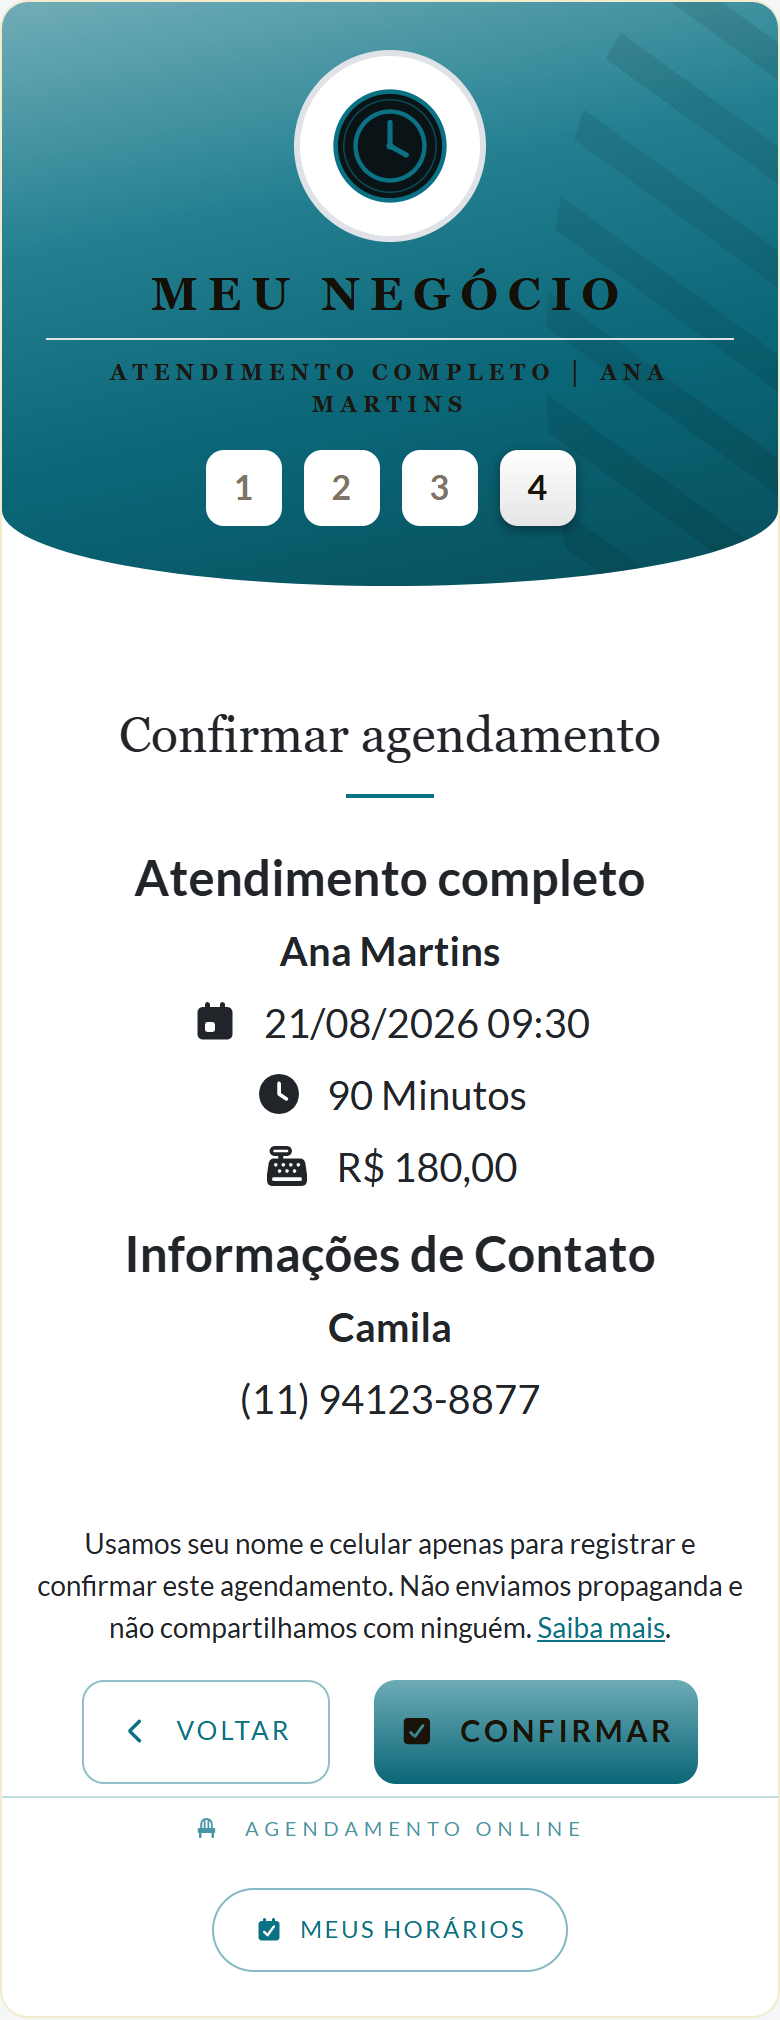
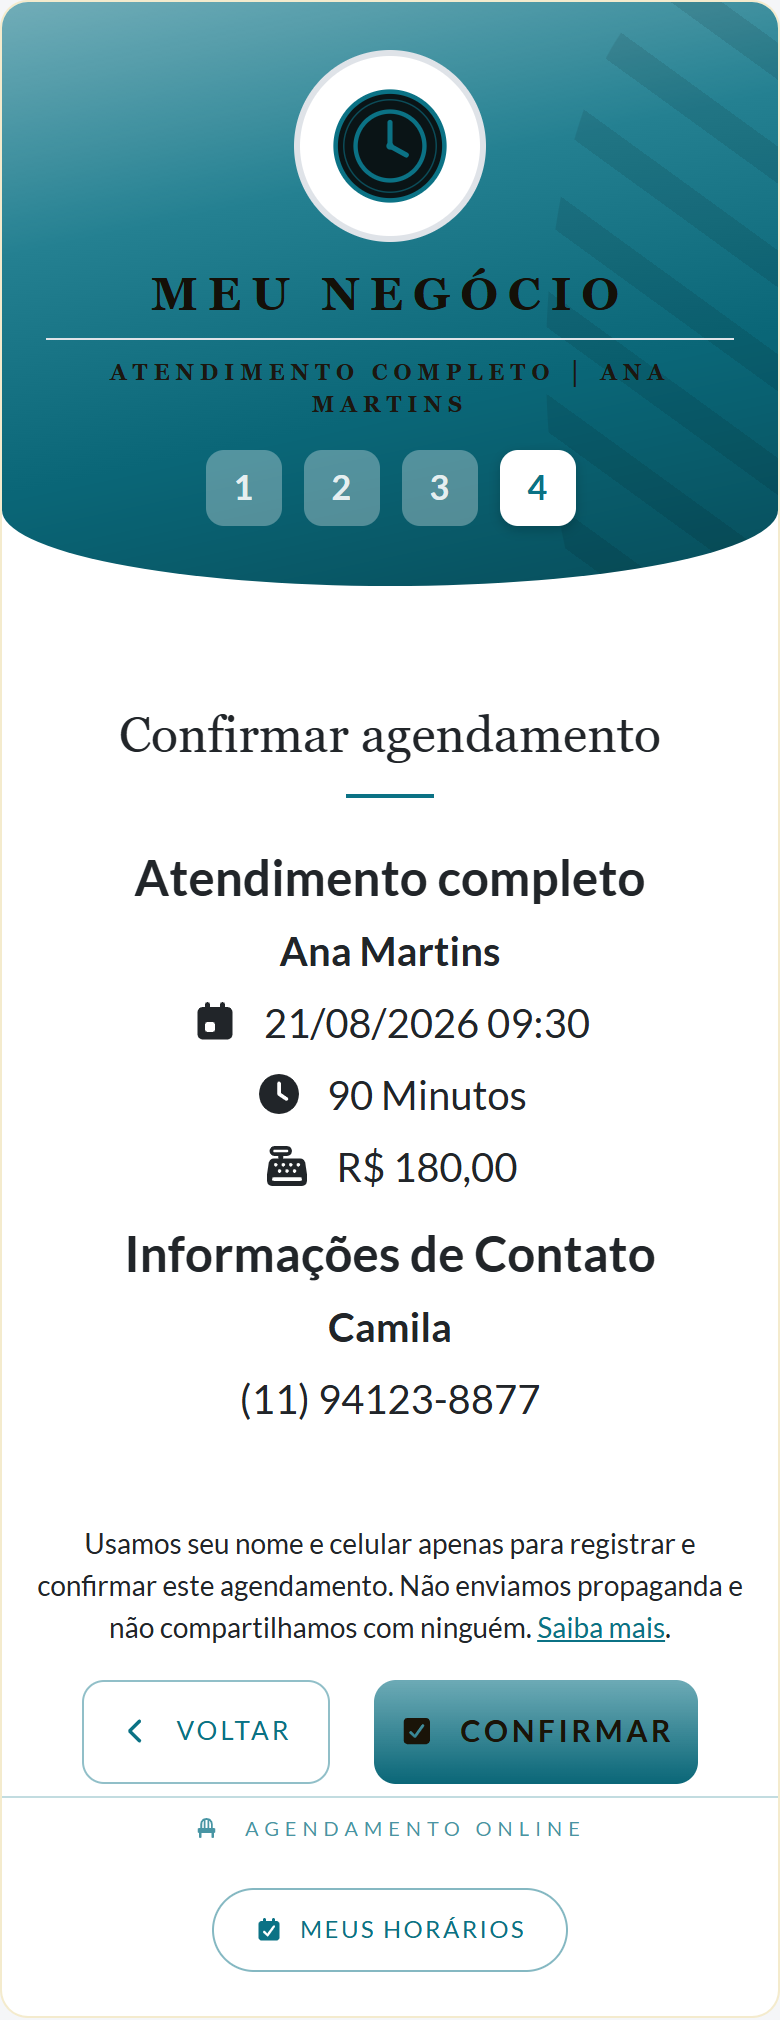
Corrige as telas do cliente: destaque do passo, calendario e borda
Tres defeitos apontados pelo Rafael, e os dois primeiros com a mesma causa raiz.

O print era tirado logo depois da inversao de cores, e o app anima cor em
transition: .3s linear - entao a foto pegava o MEIO da animacao. Dai a tela do
passo 2 saia com o destaque parecendo estar no numero 1, e os horarios lavados.
Corrigido desligando transition e animation na folha que o tema_claro.js injeta,
mais 350ms de folga por garantia.

A tira 1-2-3-4 precisou de tratamento proprio: ela fica sobre a faixa da marca,
que continua colorida, entao a regra geral de "fundo escuro vira claro" nao valia
ali - o inativo (#241f16) virava branco e ficava igual ao ativo. Voltou ao
desenho do proprio Easy!Appointments: ativo e' pastilha branca solida com o
numero na cor da marca, inativo e' branco translucido.

O calendario tinha 2.620px contra 1.584 do passo 3 e saia com o dobro do
comprimento dos vizinhos. Passou a ser cortado na segunda fileira de horarios
(1.944px); a fileira agora fecha em 484/520/424/541.

E os prints sumiam no papel: desde que viraram claros o fundo deles (#f5f6f8) e'
quase o da pagina, e sem uma linha em volta a tela se dissolvia. Entrou borda de
1px nas 10 imagens do app.

Defeito latente achado no caminho: os scripts pediam a data em UTC, e rodando as
22h19 pediam o dia seguinte ao app, que respondia uma tela vazia e estourava o
recorte. Passaram a usar a data de Sao Paulo.

Changed region(s): [[0.2462, 0.2183, 0.6154, 0.2807], [0.6769, 0.2183, 0.7077, 0.2495]]

diff --git a/agenda-global/index.html b/agenda-global/index.html
@@ -142,9 +142,15 @@ header {
 /* height:auto e' obrigatorio junto de width/height no <img>. Sem ele a altura
    fica presa nos 1688 do atributo e a imagem estica — foi o defeito que
    quebrou a home no ar em 16/08 (T76). Nao remover. */
+/* A BORDA NAO E' ENFEITE. Desde 20/08/2026 os prints do app nesta pagina sao a
+   versao clara, e o fundo deles (#f5f6f8) e' quase o mesmo da pagina: sem uma
+   linha em volta a tela do celular se dissolve no papel e o visitante nao ve onde
+   comeca o produto. Com o print escuro a sombra bastava; com o claro, nao.
+   Apontado pelo Rafael: "a imagem esta da mesma cor que a lateral". */
 .heroi img {
   width: 100%; height: auto; max-width: 300px; display: block; margin: 0 auto;
   border-radius: var(--radius-3); box-shadow: var(--shadow-2);
+  border: var(--border-size-1) solid var(--linha);
 }
 
 /* ---------- botões ---------- */
@@ -243,6 +249,7 @@ td code {
 .telas.quatro figure { max-width: 210px; }
 .telas img {
   width: 100%; height: auto; border-radius: var(--radius-3); box-shadow: var(--shadow-2);
+  border: var(--border-size-1) solid var(--linha);
 }
 .telas figcaption {
   color: var(--tinta-tenue); font-size: var(--font-size-0);
@@ -254,6 +261,7 @@ td code {
 .lado-a-lado .print img {
   width: 100%; height: auto; max-width: 290px; display: block; margin: 0 auto;
   border-radius: var(--radius-3); box-shadow: var(--shadow-2);
+  border: var(--border-size-1) solid var(--linha);
 }
 
 /* ---------- FAQ ---------- */
@@ -411,6 +419,7 @@ details.acordeao table { margin-top: 0; }
 .painel-duplo img {
   width: 100%; height: auto; max-width: 340px; display: block; margin: 0 auto;
   border-radius: var(--radius-3); box-shadow: var(--shadow-2);
+  border: var(--border-size-1) solid var(--linha);
 }
 .painel-duplo figcaption {
   color: var(--tinta-fraca); font-size: var(--font-size-1);
@@ -639,8 +648,8 @@ details.acordeao table { margin-top: 0; }
                 <figcaption>1. Serviço e profissional, com tempo e preço</figcaption>
             </figure>
             <figure>
-                <img src="../img/claro-tela-2.png" width="780" height="2620" loading="lazy" decoding="async"
-                     alt="Passo 2 do agendamento: dias e horários livres, com os já ocupados riscados">
+                <img src="../img/claro-tela-2.png" width="780" height="1944" loading="lazy" decoding="async"
+                     alt="Passo 2 do agendamento: calendário do mês com os dias sem vaga riscados, e abaixo os horários livres do dia escolhido, com um deles selecionado">
                 <figcaption>2. O horário, só o que está livre</figcaption>
             </figure>
             <figure>
@@ -755,7 +764,7 @@ details.acordeao table { margin-top: 0; }
             <figure>
                 <img src="../img/claro-faturamento.png" width="780" height="1220"
                      loading="lazy" decoding="async"
-                     alt="Tela de Faturamento no celular: atalhos de hoje, ontem, 7 dias, este mês e 30 dias, com R$ 840,00 já atendido em 7 atendimentos, ticket médio de R$ 120,00, R$ 420,00 ainda por atender e R$ 120,00 perdido com 1 falta">
+                     alt="Tela de Faturamento no celular: atalhos de hoje, ontem, 7 dias, este mês e 30 dias, com R$ 1.260,00 já atendido em 10 atendimentos, ticket médio de R$ 126,00, R$ 180,00 ainda por atender e R$ 120,00 perdido com 1 falta">
                 <figcaption>O período que você escolher, fechado sozinho</figcaption>
             </figure>
             <figure>
